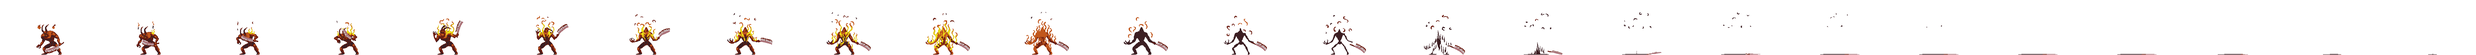
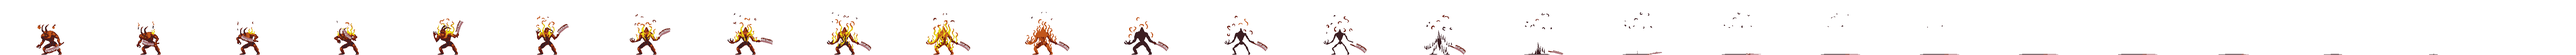
animasi demon perbaiki

Changed region(s): [[0.0, 0.375, 0.875, 1.0], [0.4375, 0.4375, 0.4688, 0.4688]]

diff --git a/core/src/main/java/io/github/mwnlgo/pbo/entities/EnemyA.java b/core/src/main/java/io/github/mwnlgo/pbo/entities/EnemyA.java
@@ -83,12 +83,12 @@ public class EnemyA extends Enemy implements IMeleeAttacker {
 
         // Animasi DEAD
         Map<Direction, Animation<TextureRegion>> deadAnims = new HashMap<>();
-        Animation<TextureRegion> deadAnim = loadAnimationFromSheet("skeleton/Dead_Skeleton_left_animation.png", 15, 1, 0.1f);
+        Animation<TextureRegion> deadAnim = loadAnimationFromSheet("skeleton/Dead_Skeleton_left_animation.png", 21, 1, 0.1f);
         deadAnim.setPlayMode(Animation.PlayMode.NORMAL);
         deadAnims.put(Direction.DOWN, deadAnim);
         deadAnims.put(Direction.UP, deadAnim);
         deadAnims.put(Direction.LEFT, deadAnim);
-        Animation<TextureRegion> deadRightAnim = loadAnimationFromSheet("skeleton/Dead_Skeleton_right_animation.png", 15, 1, 0.1f);
+        Animation<TextureRegion> deadRightAnim = loadAnimationFromSheet("skeleton/Dead_Skeleton_right_animation.png", 21, 1, 0.1f);
         deadRightAnim.setPlayMode(Animation.PlayMode.NORMAL);
         deadAnims.put(Direction.RIGHT, deadRightAnim);
         this.animations.put(EnemyState.DEAD, deadAnims);

diff --git a/core/src/main/java/io/github/mwnlgo/pbo/entities/EnemyC.java b/core/src/main/java/io/github/mwnlgo/pbo/entities/EnemyC.java
@@ -69,11 +69,11 @@ public class EnemyC extends Enemy {
         hurtAnims.put(Direction.UP, hurtRightAnim);
         this.animations.put(EnemyState.HURT, hurtAnims);
         Map<Direction, Animation<TextureRegion>> deadAnims = new HashMap<>();
-        Animation<TextureRegion> deadAnim = loadAnimationFromSheet("necro/death_Necro_left_animation.png", 9, 1, 0.1f);
+        Animation<TextureRegion> deadAnim = loadAnimationFromSheet("necro/death_Necro_left_animation.png", 10, 1, 0.1f);
         deadAnim.setPlayMode(Animation.PlayMode.NORMAL);
         deadAnims.put(Direction.DOWN, deadAnim);
         deadAnims.put(Direction.LEFT, deadAnim);
-        Animation<TextureRegion> deadRightAnim = loadAnimationFromSheet("necro/death_Necro_right_animation.png", 9, 1, 0.1f);
+        Animation<TextureRegion> deadRightAnim = loadAnimationFromSheet("necro/death_Necro_right_animation.png", 10, 1, 0.1f);
         deadRightAnim.setPlayMode(Animation.PlayMode.NORMAL);
         deadAnims.put(Direction.RIGHT, deadRightAnim);
         deadAnims.put(Direction.UP, deadRightAnim);

diff --git a/core/src/main/java/io/github/mwnlgo/pbo/entities/EnemyB.java b/core/src/main/java/io/github/mwnlgo/pbo/entities/EnemyB.java
@@ -88,12 +88,12 @@ public class EnemyB extends Enemy implements IMeleeAttacker {
 
         // Animasi DEAD
         Map<Direction, Animation<TextureRegion>> deadAnims = new HashMap<>();
-        Animation<TextureRegion> deadAnim = loadAnimationFromSheet("demon/death_demon_left_animation.png", 19, 1, 0.1f);
+        Animation<TextureRegion> deadAnim = loadAnimationFromSheet("demon/death_demon_left_animation.png", 26, 1, 0.1f);
         deadAnim.setPlayMode(Animation.PlayMode.NORMAL);
         deadAnims.put(Direction.DOWN, deadAnim);
         deadAnims.put(Direction.LEFT, deadAnim);
 
-        Animation<TextureRegion> deadRightAnim = loadAnimationFromSheet("demon/death_demon_right_animation.png", 19, 1, 0.1f);
+        Animation<TextureRegion> deadRightAnim = loadAnimationFromSheet("demon/death_demon_right_animation.png", 26, 1, 0.1f);
         deadRightAnim.setPlayMode(Animation.PlayMode.NORMAL);
         deadAnims.put(Direction.RIGHT, deadRightAnim);
         deadAnims.put(Direction.UP, deadRightAnim);
